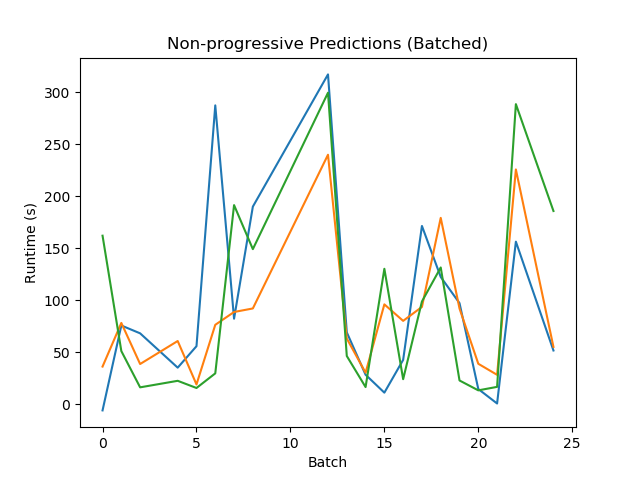
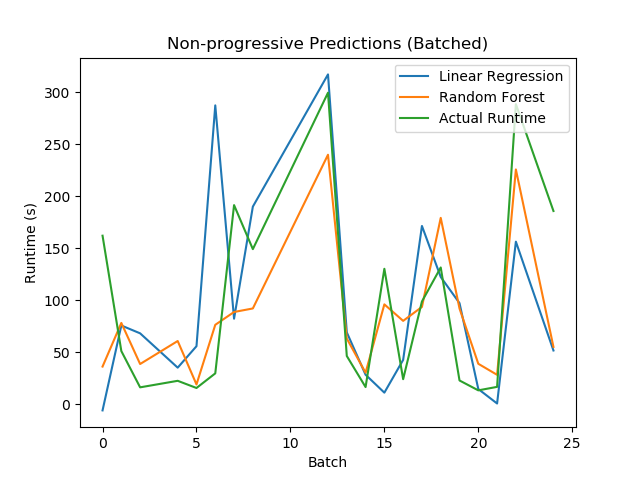
accuracies

Changed region(s): [[0.6875, 0.125, 0.875, 0.2812], [0.625, 0.1562, 0.6562, 0.25]]

diff --git a/model/models.py b/model/models.py
@@ -26,10 +26,8 @@ def main():
     # if asynchronous, also generate non-progressive equivalent
     if asynchronous:
         X_np, y_np = generate_non_progressive(X, y, method=async_method, n_batches=25)
+        # evaluate progressive vs non-progressive performance
         eval(X.loc[test_idx], y.loc[test_idx], X_np.loc[test_idx], y_np[test_idx], lr, rf)
-
-    # evaluate progressive vs non-progressive performance
-
 
 
 # ===== FUNCTIONS FOR TRAINING AND TESTING MODELS =====
@@ -239,8 +237,22 @@ def eval(X, y, X_np, y_np, lr, rf):
     pred_df = pd.DataFrame(predictions, columns=names)
     pred_df['batch'] = batches
     pred_df['actual'] = y.values
+    pred_df['lr_error'] = np.abs(pred_df.actual - pred_df.lr_np)
+    pred_df['rf_error'] = np.abs(pred_df.actual - pred_df.rf_np)
     pred_df_sum = pred_df.groupby('batch').sum()
-    print(pred_df_sum)
+
+    print('Progressive:')
+    print('Script LR Average Absolute Error %.4f' %(np.mean(np.abs(pred_df.actual - pred_df.lr_p))))
+    print('Script RF Average Absolute Error %.4f' %(np.mean(np.abs(pred_df.actual - pred_df.rf_p))))
+    print('Batch LR Average Absolute Error %.4f' %(np.mean(np.abs(pred_df_sum.actual - pred_df_sum.lr_p))))
+    print('Batch RF Average Absolute Error %.4f' %(np.mean(np.abs(pred_df_sum.actual - pred_df_sum.rf_p))))
+    
+    print('Non-Progressive:')
+    print('Script LR Average Absolute Error %.4f' %(np.mean(pred_df.lr_error)))
+    print('Script RF Average Absolute Error %.4f' %(np.mean(pred_df.rf_error)))
+    print('Batch LR Average Absolute Error %.4f' %(np.mean(pred_df_sum.lr_error)))
+    print('Batch RF Average Absolute Error %.4f' %(np.mean(pred_df_sum.rf_error)))
+    # print(pred_df_sum)
 
     # plot
     plot_p_np_predictions(pred_df, pred_df_sum)
@@ -249,8 +261,8 @@ def eval(X, y, X_np, y_np, lr, rf):
 def plot_p_np_predictions(pred_df, pred_df_sum):
     # overlay histograms of errors (batch)
     plt.figure()
-    plt.hist(np.abs(pred_df_sum.actual - pred_df_sum.lr_np), alpha=0.5, label='Linear Regression')
-    plt.hist(np.abs(pred_df_sum.actual - pred_df_sum.rf_np), alpha=0.5, label='Random Forest')
+    plt.hist(pred_df_sum.lr_error, alpha=0.5, label='Linear Regression')
+    plt.hist(pred_df_sum.rf_error, alpha=0.5, label='Random Forest')
     plt.legend()    
     plt.title("Histogram of Non-progressive Absolute Errors (Batched)")
     plt.xlabel('Absolute Error (s)')
@@ -259,9 +271,10 @@ def plot_p_np_predictions(pred_df, pred_df_sum):
 
     # line plot
     plt.figure()
-    plt.plot(pred_df_sum.lr_np)
-    plt.plot(pred_df_sum.rf_np)
-    plt.plot(pred_df_sum.actual)
+    plt.plot(pred_df_sum.lr_np, label='Linear Regression')
+    plt.plot(pred_df_sum.rf_np, label='Random Forest')
+    plt.plot(pred_df_sum.actual, label='Actual Runtime')
+    plt.legend()
     plt.title("Non-progressive Predictions (Batched)")
     plt.xlabel('Batch')
     plt.ylabel('Runtime (s)')
@@ -269,8 +282,8 @@ def plot_p_np_predictions(pred_df, pred_df_sum):
 
     # overlay histograms of errors (individual)
     plt.figure()
-    plt.hist(np.abs(pred_df.actual - pred_df.lr_np), alpha=0.5, label='Linear Regression')
-    plt.hist(np.abs(pred_df.actual - pred_df.rf_np), alpha=0.5, label='Random Forest')
+    plt.hist(pred_df.lr_error, alpha=0.5, label='Linear Regression')
+    plt.hist(pred_df.rf_error, alpha=0.5, label='Random Forest')
     plt.legend()    
     plt.title("Histogram of Non-progressive Absolute Errors (Per-script)")
     plt.xlabel('Absolute Error (s)')
@@ -279,9 +292,10 @@ def plot_p_np_predictions(pred_df, pred_df_sum):
 
     # line plot
     plt.figure()
-    plt.plot(pred_df.lr_np)
-    plt.plot(pred_df.rf_np)
-    plt.plot(pred_df.actual)
+    plt.plot(pred_df.lr_np, label='Linear Regression')
+    plt.plot(pred_df.rf_np, label='Random Forest')
+    plt.plot(pred_df.actual, label='Actual Runtime')
+    plt.legend()
     plt.title("Non-progressive Predictions (Per-script)")
     plt.xlabel('Batch')
     plt.ylabel('Runtime (s)')
